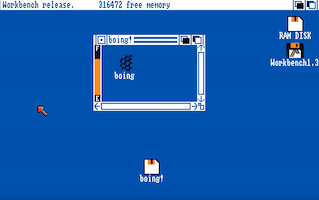
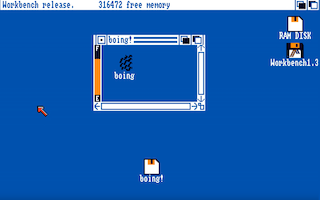
drag WB screen with mouse, added Amiga mouse pointer, scanline effect and boot screen

diff --git a/boing.py b/boing.py
@@ -1,6 +1,7 @@
 #!/usr/bin/env python
 
 import io
+import math
 import pygame
 import random
 import struct
@@ -641,6 +642,13 @@ class Icon(pygame.Surface):
         pygame.transform.scale(self.timg, (32, 32), self)
 
 
+class ScanLines(pygame.Surface):
+    def __init__(self, width, height, spacing=2, intensity=32):
+        pygame.Surface.__init__(self, (width, height), pygame.SRCALPHA)
+        for y in range(0, height, spacing):
+            pygame.draw.line(self, (0, 0, 0, intensity), (0, y), (width, y))
+
+
 class Sound:
     def __init__(self, samplefile: str):
         self.sound = None
@@ -682,17 +690,42 @@ class Workbench:
         DRAGGING_UP = auto()
 
     def __init__(self):
-        self.wb = pygame.image.load('wb.png')
-        self.state = self.State.FULL_UP
+        self.wb = None
+        
+        try:
+            self.wb = pygame.image.load('wb.png')
+            self.state = self.State.FULL_UP
+            self.countdown = 100
+            self.height_half = 100
+            self.height = 200
+            self.mouse_is_pressed = False
+        except Exception as ex:
+            print(f"Error loading workbench image: {ex}, running without workbench")
+
+    def mouse_pressed(self, mouse_pos):
+        self.mouse_is_pressed = True
+        self.mouse_motion(mouse_pos)
+
+    def mouse_released(self, mouse_pos):
+        self.mouse_is_pressed = False
+        self.mouse_motion(mouse_pos)
+        self.state = self.State.DRAGGING_DOWN
         self.countdown = 100
-        self.height_half = 100
-        self.height = 200
+
+    def mouse_motion(self, mouse_pos):
+        if self.mouse_is_pressed:
+            self.height = 200-mouse_pos[1]
+            if self.height > 200:
+                self.height = 200
 
     def update(self, screen):
+        if not self.wb:
+            return
+
         if self.countdown > 0:
             self.countdown -= 1
 
-        if self.countdown == 0:
+        if not self.mouse_is_pressed and self.countdown == 0:
             match self.state:
                 case self.State.FULL_UP:
                     self.state = self.State.DRAGGING_DOWN
@@ -728,22 +761,47 @@ def main():
     icon = Icon(ball)
     background = Background()
     wb = Workbench()
+    scanlines = ScanLines(background.get_width(), background.get_height())
+    boot_img = None
+    cursor = None
 
-    cursor_img = pygame.image.load("cursor.png")
-    cursor = pygame.cursors.Cursor((0, 0), cursor_img)
+    try:
+        boot_img = pygame.image.load("boot.png")
+    except Exception as ex:
+        print(f"Error loading boot image: {ex}")
+
+    try:
+        cursor_img = pygame.image.load("cursor.png")
+        cursor = pygame.cursors.Cursor((0, 0), cursor_img)
+    except Exception as ex:
+        print(f"Error loading cursor image: {ex}, using default cursor")
 
     screen = pygame.display.set_mode(size=(320, 200))
     pygame.display.set_caption('Boing')
     pygame.display.set_icon(icon)
-    pygame.mouse.set_cursor(cursor)
+    if cursor:
+        pygame.mouse.set_cursor(cursor)
+
+    if boot_img:
+        screen.blit(boot_img, (0, 0))
+        pygame.display.flip()
+        pygame.time.wait(2000)
+        screen.blit(scanlines, (0, 0))
 
     fullscreen = False
+    scanlines_enabled = True
 
     while True:
         ticks1 = pygame.time.get_ticks()
         evt = pygame.event.poll()
         if evt.type == pygame.QUIT:
             break
+        elif evt.type == pygame.MOUSEBUTTONDOWN:
+            wb.mouse_pressed(evt.pos)
+        elif evt.type == pygame.MOUSEBUTTONUP:
+            wb.mouse_released(evt.pos)
+        elif evt.type == pygame.MOUSEMOTION:
+            wb.mouse_motion(evt.pos)
         elif evt.type == pygame.KEYDOWN:
             match evt.key:
                 case pygame.K_F11:
@@ -756,9 +814,12 @@ def main():
                         screen = pygame.display.set_mode(size=(320, 200))
                         pygame.display.set_caption('Boing')
                         pygame.display.set_icon(icon)
-                    pygame.mouse.set_cursor(cursor)
+                    if cursor:
+                        pygame.mouse.set_cursor(cursor)
                 case pygame.K_w:
                     wb.countdown = 0
+                case pygame.K_s:
+                    scanlines_enabled = not scanlines_enabled
                 case pygame.K_ESCAPE:
                     break
                 case pygame.K_q:
@@ -768,6 +829,9 @@ def main():
         screen.blit(ball, ball.get_position())
         screen.blit(ball.shadow, ball.get_position(), special_flags=pygame.BLEND_RGB_SUB)
         wb.update(screen)
+        if scanlines_enabled:
+            screen.blit(scanlines, (0, 0))
+
         pygame.display.flip()
 
         ticks2 = pygame.time.get_ticks()
